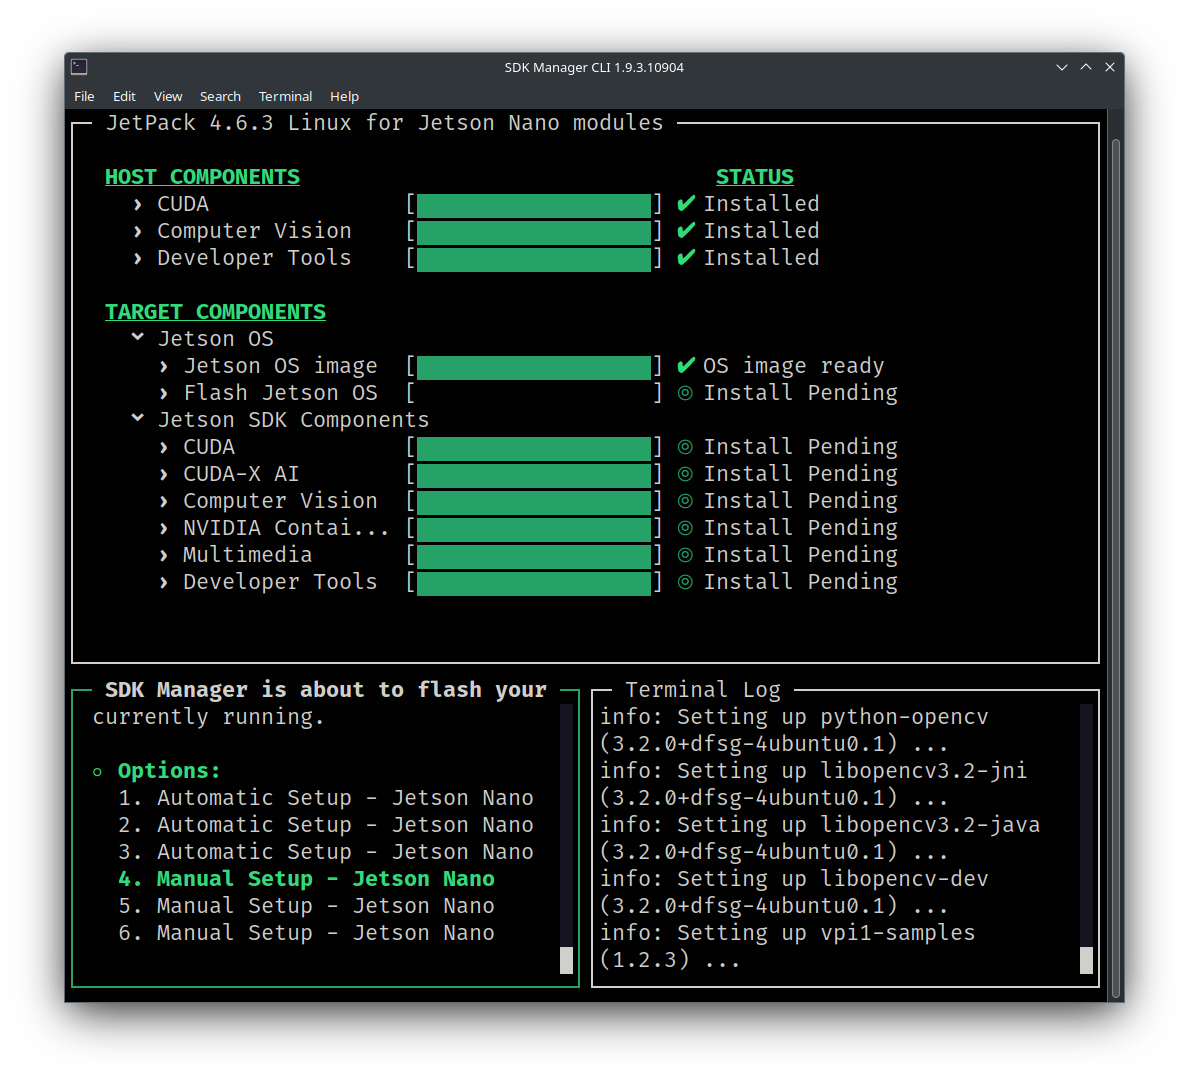
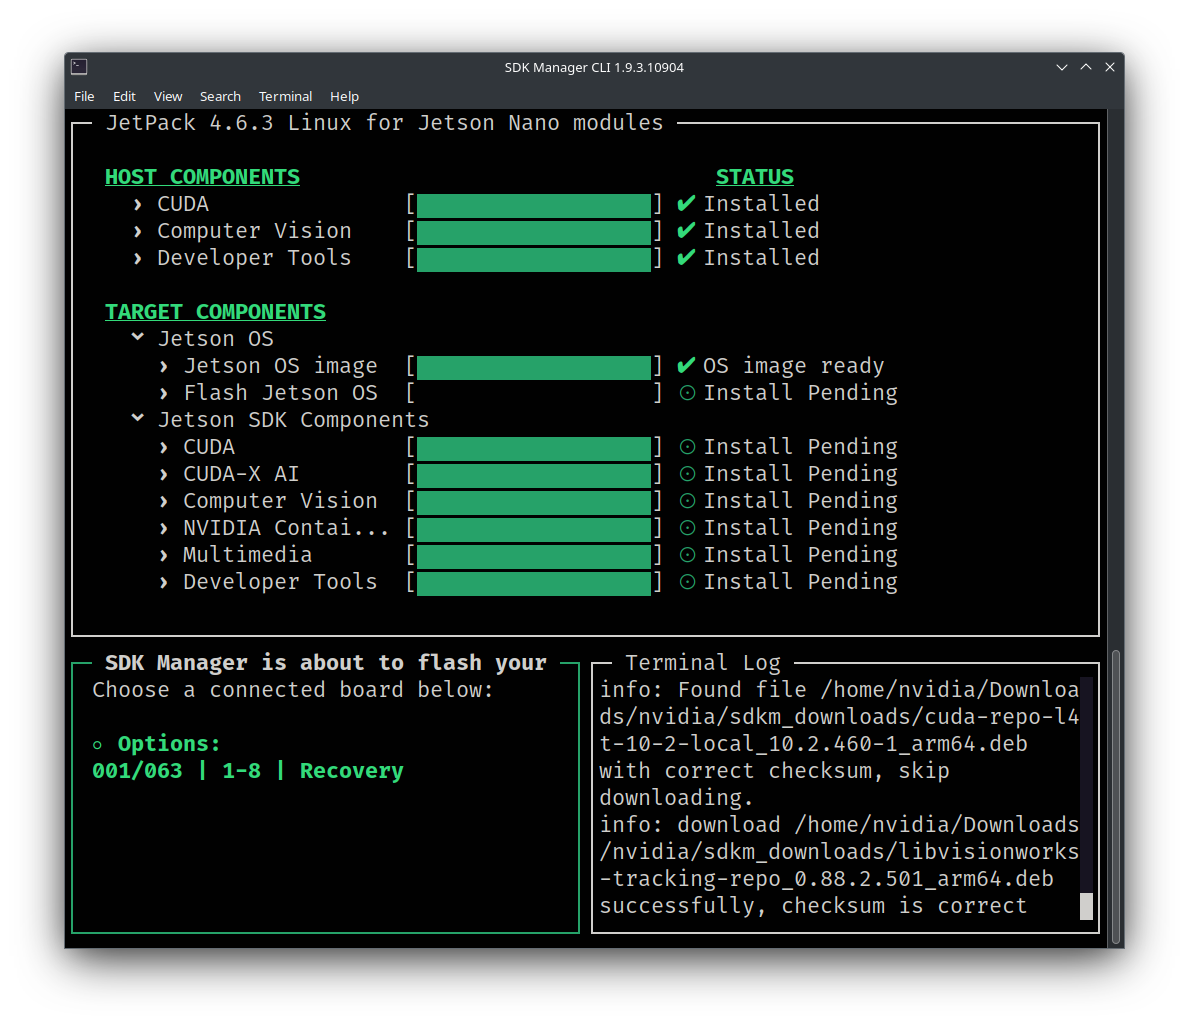
Jetson Nano validated.

Changed region(s): [[0.0622, 0.1249, 0.9647, 0.9366], [0.0622, 0.0312, 0.9336, 0.1249], [0.3423, 0.1561, 0.7157, 0.281]]

diff --git a/jetson/README.md b/jetson/README.md
@@ -63,9 +63,15 @@ docker tag sdkmanager:VERSION-Ubuntu_18.04 sdkmanager:18.04
 
 2. If applicable, ensure that you have jumped the "DC Barrel Jack" jumper on your Jetson Nano board to allow the Jetson Nano to use the DC power supply.
 
-3. While keeping the `GND` and `FC REC` pins jumped, power on the device by connecting the micro-USB to USB-A port to your computer AND connecting the power supply to the barrel jack on the Jetson Nano.
+3. If applicable, insert a microSD card into the microSD card slot located under the daughter board under the headsink.
 
-4. Run the `lsusb` command inside your Linux terminal and you should see output similar to:
+4. Connect the Jetson Nano to a monitor.
+
+5. Connect a keyboard and mouse to the Jetson Nano.
+
+6. While keeping the `GND` and `FC REC` pins jumped, power on the device by connecting the micro-USB to USB-A port to your computer AND connecting the power supply to the barrel jack on the Jetson Nano.
+
+7. Run the `lsusb` command inside your Linux terminal and you should see output similar to:
 
 ```
 Bus 001 Device 061: ID 0955:7020 NVIDIA Corp. APX
@@ -73,9 +79,7 @@ Bus 001 Device 061: ID 0955:7020 NVIDIA Corp. APX
 
 This means that your computer detects the Jetson Nano and it is ready to flash.
 
-5. Connect the Jetson Nano to a monitor.
-
-6. Connect a keyboard and mouse to the Jetson Nano.
+8. Disconnect the jumper cable that was connecting the `GND` and `FC REC` pins.
 
 ### 1.4 Flashing the Jetson Nano using SDK-Manager inside Docker
 
@@ -104,13 +108,13 @@ Login user code: REDACTED. (valid for: 10 minutes).
 
 ![SDK Manager Splash Screen](./assets/SDKManagerDockerSplash.png)
 
-4. Read the Privacy Notice Accept the subsequent license agreements and choose the options you would like. You may choose `No` for the Privacy Notice window and you MUST select `Yes` for the subsequent license agreement.
+4. Before navigating through the Privacy Notice and license agreements, keep in mind that the default software packages will be installed after a short timer UNLESS you press the 'spacebar' immediately after accepting the last license agreement. We recommend keeping the default selections so pressing any key is completely OPTIONAL. It is alright to allow the defaults to auto-install after the short timer expires or by pressing 'enter'. Now, read the Privacy Notice (you can choose `Yes` or `No`) and ACCEPT the subsequent license agreements.
 
-5. After accepting the license agreements, immediately press the 'spacebar'. This allows you to customize the software that will be downloaded for flashing the Jetson Nano. It is recommended that you keep the default selections (i.e. the `HOST COMPONENTS` and `TARGET COMPONENTS` selected) like below:
+5. After accepting the license agreements, you have a few seconds to press the 'spacebar' if you would like to customize your software. This is OPTIONAL. This allows you to customize the software that will be downloaded for flashing the Jetson Nano. It is recommended that you keep the default selections (i.e. the `HOST COMPONENTS` and `TARGET COMPONENTS` selected) like below:
 
 ![SDK Manager Default Selections](./assets/SDKManagerDefaultSelections.png)
 
-6. Press enter to begin downloading the software required for flashing the Jetson Nano device. Depending on your internet connection speed, this usually takes 1-2 hours.
+6. Press enter to begin downloading the software required for flashing the Jetson Nano device. Depending on your internet connection speed, this usually takes 1-2 hours. You may see some errors in the `Terminal Log` but these are normal as long as progress on the downloads is being made.
 
 7. While your software is downloading (or after it completes), run the following command inside of a second terminal on your computer to check that the Jetson Nano is detected within the Docker container:
 
@@ -128,11 +132,82 @@ Bus 001 Device 061: ID 0955:7020 NVidia Corp.
 
 ![SDK Manager Downloads Done](./assets/SDKManagerDownloadsDone.png)
 
-9. Flash the Jetson Nano with `Jetson OS`. Select `4. Manual Setup - Jetson Nano` from the `Options` list on the bottom left corner... FLASH While the OS is flashing you will probably see the monitor the Jetson Nano is connected to flash/reboot several times. This is normal.
+9. Click the `SDK Manager is about...` area and press enter to select `Options: XYZ/ABC | 1-8 | Recovery` to select your Jetson Nano in recovery mode. Flash the Jetson Nano with `Jetson OS` by selecting `4. Manual Setup - Jetson Nano` from the `Options` list on the bottom left corner.
 
-10. After the Jetson Nano has been flashed successfully you should see the following image. You will also notice that a setup dialog has appeared on the Jetson Nano's monitor to setup the Jetson Nano's OS. Follow the on-screen instructions to setup the Jetson Nano's OS and DO NOT FORGET the username and password you setup.
+10. Ensure Jetson Nano is powered via the barrel jack power supply AND connected to the PC via the USB cable. Press enter to continue when asked to `Continue?`.
 
-11. Install the `Jetson SDK Components`
+11. Select `Runtime` from the `OEM Configuration` list.
+
+12. While the OS is flashing you will probably see the monitor the Jetson Nano is connected to flash/reboot several times. This is normal. The full flashing process takes around ~20 minutes.
+
+13. After the Jetson Nano has been flashed successfully you should see the following image.
+
+![SDK Manager Flashed Nano Flashed](./assets/SDKManagerFlashed.png)
+
+14. You will also notice that a `System Configuration` dialog has appeared on the Jetson Nano's monitor to setup the Jetson Nano's OS. Keep the Jetson Nano attached to your host computer running the Docker container and then follow the on-screen instructions to setup the Jetson Nano's OS and DO NOT FORGET the username and password you setup.
+
+15. After setting up the Jetson Nano's OS, it will appear to reboot and land on a login screen. From here, you can proceed with installing the `Jetson SDK Components`. Like the previous picture of the screen `SDK Manager is about to install SDK...` select `1. Install` and press enter.
+
+16. When prompted to `Connect via` select `USB cable` and press enter.
+
+17. When prompted to `Choose a connected board below:` select the Jetson Nano in recovery mode and press enter.
+
+18. When prompted to `Enter SSH connect details to Jetson Nano modules:` select `IPv4` as the `IP type` and press enter.
+
+19. Leave the `IP address` as the default address of `192.168.55.1`.
+
+20. Enter the `Username` for the user you setup on the Jetson Nano and press enter.
+
+21. Enter the `Password` for the user you setup on the Jetson Nano and press enter.
+
+22. If you entered the credentials correctly, the Jetson SDK components should begin installing. This process can take ~1 hour. Note that you may see a couple of errors in the `Terminal Log`, but as long as the installation continues, this is normal.
+
+23. If all of the SDK Components were installed correctly you should see the following screen:
+
+![SDK Manager Complete](./assets/SDKManagerComplete.png)
+
+24. You have now successfully flashed your Jetson Nano. To exit the Docker container simply press the `CTRL` and `c` key on your keboard at the same time and confirm you wish to exit. You should see the following after you exit:
+
+```
+  ===== INSTALLATION COMPLETED SUCCESSFULLY. =====
+      - CUDA on Host: Up-to-date
+      - CUDA Cross Compile Package on Host: Up-to-date
+      - VisionWorks on Host: Up-to-date
+      - VPI on Host: Up-to-date
+      - Nsight Graphics: Up-to-date
+      - Nsight Systems: Up-to-date
+      - Drivers for Jetson: Up-to-date
+      - File System and OS: Up-to-date
+      - Flash Jetson Nano: Installed
+      - DateTime Target Setup: Installed
+      - CUDA Toolkit for L4T: Installed
+      - cuDNN on Target: Installed
+      - TensorRT on Target: Installed
+      - OpenCV on Target: Installed
+      - VisionWorks on Target: Installed
+      - VPI on Target: Installed
+      - NVIDIA Container Runtime with Docker integration (Beta): Installed
+      - Multimedia API: Installed
+      - Nsight Systems CLI: Installed
+
+  ===== Installation completed successfully - Total 19 components =====
+  ===== 11 succeeded, 0 failed, 8 up-to-date, 0 skipped =====
+```
+
+25. Now login into the Jetson Nano and reboot the device and you should be ready to use it.
+
+26. In the future, if you need to reflash your Jetson Nano you can simply run the following command and re-flash your Jetson Nano with the same process, except you will not have to wait for the software to download again. Be sure if you do need to reflash your Jetson Nano that you enter the Jetson Nano into recovery mode again.
+
+```shell
+docker start -ai JetPack_NX_Devkit
+```
+
+27. You can also save your docker container named `JetPack_NX_Devkit` as an image and a `.tar` file by running the following two commands:
+
+```shell
+docker commit JetPack_NX_Devkit jetpack_nx_devkit:flashed
+docker export jetpack_nx_devkit:flashed -o jetpack_nx_devkit.tar
+```
 
 ## 2. Using the Jetson Nano to Run ML Models
 
@@ -140,4 +215,20 @@ COMING SOON
 
 ## Appendix
 
-### A. Expanding Storage Space on the EMMC Jetson Nano
+### A. Post-Install Script (OPTIONAL)
+
+For deployment settings, you can OPTIONALLY use the [postinstall.sh](./postinstall.sh) script to turn off serveral services, update the OS, disable the GUI, install several dependencies, setup conda, setup ssh, and more.
+
+### B. Installing a Light-Weight GUI (OPTIONAL)
+
+There are many display managers (DMs) and desktop environments (DEs) available for Linux. Display managers simply display the GUI. Desktop environments are the GUI interface you use in Linux. Both are required to install and use a GUI. We will use light-weight options for the Jetson Nano since it is resource constrained: LightDM for the DM and XFCE4 for the DE.
+
+To install LightDM and XFCE4 for your Jetson Nano, run the following commands:
+
+1. `sudo apt update` # Updates APT package repos
+2. `sudo apt upgrade` # Upgrades all of the software
+3. `sudo apt install lightdm` # Install and Configure LightDM as default if asked.
+4. `sudo dpkg-reconfigure lightdm` # Select lightdm
+5. `sudo apt install xfce4 xfce4-goodies` # Install XFCE4 GUI
+6. `sudo systemctl set-default multi-user.target` # re-enables the GUI if you used the postinstall.sh script.
+7. Reboot your machine and the GUI should show up asking for login credentials. Be sure to look for a button to select `XFCE Session` to select XFCE as your DE.

diff --git a/raspberrypi/README.md b/raspberrypi/README.md
@@ -110,4 +110,4 @@ To install LightDM and XFCE4 for your Raspberry Pi, run the following commands:
 3. `sudo apt install lightdm` # Install and Configure LightDM as default if asked.
 4. `sudo dpkg-reconfigure lightdm` # Select lightdm
 5. `sudo apt install xfce4 xfce4-goodies` # Install XFCE4 GUI
-6. Reboot your machine and the GUI should show up asking for login credentials.
+6. Reboot your machine and the GUI should show up asking for login credentials. Be sure to look for a button to select `XFCE Session` to select XFCE as your DE.
